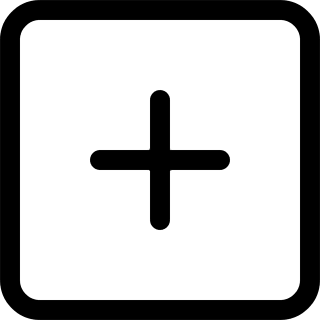
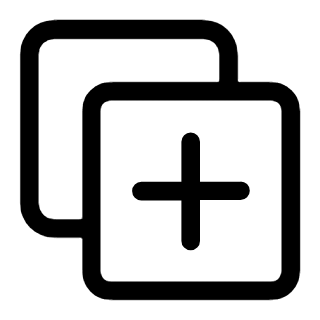
style changed, add button for new note, new checkbox

diff --git a/views/NoteView.jsx b/views/NoteView.jsx
@@ -40,7 +40,7 @@ const NoteView = ({ navigation, route }) => {
         const lastIndex = originalUri.lastIndexOf('/');
         const directory = originalUri.substring(0, lastIndex + 1);
         const fileName = originalUri.substring(lastIndex + 1);
-        
+
         const newFileUri = `${directory}copy_${timestamp}_${fileName}`;
         return newFileUri;
     };
@@ -49,9 +49,9 @@ const NoteView = ({ navigation, route }) => {
         try {
             const downloadsDirectory = `${FileSystem.documentDirectory}Documents/`;
             await FileSystem.makeDirectoryAsync(downloadsDirectory, { intermediates: true });
-    
+
             const newFileUri = `${downloadsDirectory}${fileName}`;
-    
+
             await FileSystem.copyAsync({
                 from: fileUri,
                 to: newFileUri,
@@ -61,25 +61,49 @@ const NoteView = ({ navigation, route }) => {
         }
     };
 
+    const copyFileToPermanentLocation = async (uri) => {
+        try {
+            const fileName = uri.split('/').pop();
+            const permanentFileUri = `${FileSystem.documentDirectory}Documents/${fileName}`;
+
+            // Копируем файл в постоянное место
+            await FileSystem.copyAsync({
+                from: uri,
+                to: permanentFileUri,
+            });
+
+            return permanentFileUri;
+        } catch (error) {
+            console.error('Error copying file:', error);
+            throw error;
+        }
+    };
+
     const saveEditedFile = async () => {
         if (editingFileIndex !== -1) {
             try {
                 const originalFileUri = files[editingFileIndex].uri;
-                const newFileUri = getNewFileUri(originalFileUri);
     
-                await FileSystem.copyAsync({ from: originalFileUri, to: newFileUri });
+                // Проверяем, находится ли файл в временной директории
+                const permanentFileUri = originalFileUri.startsWith('file:///data/user/0/host.exp.exponent/cache')
+                    ? await copyFileToPermanentLocation(originalFileUri)
+                    : originalFileUri;
+
+                    console.log(permanentFileUri)
     
+                // Перезаписываем файл с новыми данными
+                await FileSystem.writeAsStringAsync(permanentFileUri, editedFileContent);
+    
+                // Обновляем список файлов с новым URI
                 const updatedFiles = [...files];
-                updatedFiles[editingFileIndex].uri = newFileUri;
+                updatedFiles[editingFileIndex] = { ...updatedFiles[editingFileIndex], uri: permanentFileUri };
                 setFiles(updatedFiles);
     
-                await FileSystem.writeAsStringAsync(newFileUri, editedFileContent);
-    
-                const fileName = `edited_${new Date().getTime()}.txt`;
-                await saveFileToDownloads(newFileUri, fileName);
-    
+                // Сбрасываем индекс и содержимое редактируемого файла
                 setEditingFileIndex(-1);
                 setEditedFileContent('');
+    
+                Alert.alert('Success', 'File has been saved.');
             } catch (err) {
                 console.error('Error saving file:', err);
                 Alert.alert('Error', 'Unable to save file.');
@@ -92,6 +116,7 @@ const NoteView = ({ navigation, route }) => {
             const fileContent = await FileSystem.readAsStringAsync(fileUri, {
                 encoding: FileSystem.EncodingType.UTF8,
             });
+            console.log('File Content:', fileContent); // Проверьте содержимое файла
             setEditingFileIndex(index);
             setEditedFileContent(fileContent);
         } catch (err) {
@@ -117,13 +142,7 @@ const NoteView = ({ navigation, route }) => {
         }
 
         try {
-            const promises = files.map(async (file) => {
-                const fileUri = file.uri;
-                const fileContent = await FileSystem.readAsStringAsync(fileUri);
-                await FileSystem.writeAsStringAsync(fileUri, fileContent);
-            });
-
-            await Promise.all(promises);
+            // Здесь уже не нужно перезаписывать файлы, так как это делается в saveEditedFile
         } catch (error) {
             console.error('Error saving files:', error);
         }
@@ -149,7 +168,7 @@ const NoteView = ({ navigation, route }) => {
                             <Text className="text-blue-600">{file.name}</Text>
                         </TouchableOpacity>
                         {editingFileIndex === index && (
-                            <TextInput className=""
+                            <TextInput className="border p-2 rounded-lg"
                                 onChangeText={(content) => setEditedFileContent(content)}
                                 placeholder='Change your file...'
                                 value={editedFileContent}
@@ -159,34 +178,40 @@ const NoteView = ({ navigation, route }) => {
                     </View>
                 ))}
             </View>
-            {editingFileIndex !== -1 && (
+            <View className="flex-1 flex-row">
+                {editingFileIndex !== -1 && (
+                    <TouchableOpacity
+                        className="flex items-center p-2 mx-1 mt-1 rounded-xl h-12"
+                        onPress={saveEditedFile}
+                    >
+                        <Image
+                            source={require('../images/save-file.png')}
+                            className="w-8 h-8"
+                        />
+                    </TouchableOpacity>
+                )}
+                {editingFileIndex === -1 && (
+                    <TouchableOpacity
+                        className="flex items-center p-2 mx-1 mt-1 rounded-xl h-12"
+                        onPress={selectFiles}
+                    >
+                        <Image
+                            source={require('../images/add-file.png')}
+                            className="w-8 h-8"
+                        />
+                    </TouchableOpacity>
+                )}
                 <TouchableOpacity
-                    className="items-center bg-gray-300 p-2 mx-1 rounded-xl mt-1"
-                    onPress={saveEditedFile}
+                    className="flex rounded-2xl w-20 h-20 justify-center items-center ml-auto mr-1"
+                    title='Save Note'
+                    onPress={saveNote}
                 >
-                    <Text>Save File</Text>
+                    <Image
+                        source={require('../images/save-note.png')}
+                        className="w-10 h-10"
+                    />
                 </TouchableOpacity>
-            )}
-            {editingFileIndex === -1 && (
-                <TouchableOpacity
-                    className="items-center bg-gray-300 p-2 mx-1 rounded-xl mt-1"
-                    onPress={selectFiles}
-                >
-                    <Text>Add Files</Text>
-                </TouchableOpacity>
-            )}
-
-
-            <TouchableOpacity
-                className="rounded-2xl w-20 h-20 justify-center items-center ml-auto mr-1"
-                title='Save Note'
-                onPress={saveNote}
-            >
-                <Image
-                    source={require('../images/align-right-svgrepo-com.png')}
-                    className="w-12 h-12"
-                />
-            </TouchableOpacity>
+            </View>
         </View>
     );
 };

diff --git a/views/HomeView.jsx b/views/HomeView.jsx
@@ -1,15 +1,19 @@
-import { View, Text, FlatList, TouchableOpacity, SafeAreaView, Image, Pressable } from 'react-native'
+import { View, Text, FlatList, TouchableOpacity, SafeAreaView, Image, Pressable, Modal } from 'react-native'
 import React, { useEffect, useState } from 'react'
 import Note from '../components/Note.jsx'
 import DeleteModal from '../components/DeleteModal.jsx'
 import AsyncStorage from '@react-native-async-storage/async-storage';
 import * as Haptics from 'expo-haptics';
 
-
 const HomeView = ({ navigation }) => {
     const [notes, setNotes] = useState([]);
     const [modalVisible, setModalVisible] = useState(false);
     const [selectedNote, setSelectedNote] = useState(null);
+    const [addModalVisible, setAddModalVisible] = useState(false);
+
+    const toggleAddModal = () => {
+        setAddModalVisible(!addModalVisible);
+    };
 
     const addNote = (note) => {
         const newNote = { id: Date.now().toString(), text: note.text, files: note.files };
@@ -99,15 +103,55 @@ const HomeView = ({ navigation }) => {
                         )}
                     />
                 </View>
-                <TouchableOpacity
-                    title='Add Note'
-                    onPress={() => navigation.navigate('Note', { addNote, updateNote })}
-                >
-                    <Image
-                        source={require('../images/plus.png')}
-                        className="w-14 h-14 absolute bottom-3 right-3"
-                    />
-                </TouchableOpacity>
+                <View className="flex-1 justify-end">
+                    <TouchableOpacity
+                        title='Add Note'
+                        onPress={toggleAddModal}
+                    >
+                        <Image
+                            source={require('../images/plus.png')}
+                            className="w-20 h-20 absolute bottom-3 right-3"
+                        />
+                    </TouchableOpacity>
+                    <Modal
+                        transparent={true}
+                        visible={addModalVisible}
+                        animationType="none"
+                        onRequestClose={toggleAddModal}
+                    >
+                        <TouchableOpacity
+                            className="flex-1"
+                            onPress={toggleAddModal}
+                        >
+                            <View className="absolute bottom-20 right-3">
+                                <TouchableOpacity
+                                    className="w-14 h-14"
+                                    onPress={() => {
+                                        toggleAddModal();
+                                        navigation.navigate('Note', { addNote, updateNote });
+                                    }}
+                                >
+                                    <Image
+                                        source={require('../images/add-check.png')}
+                                        className="w-14 h-14 absolute bottom-2"
+                                    />
+                                </TouchableOpacity>
+                                <TouchableOpacity
+                                    className="w-14 h-14"
+                                    onPress={() => {
+                                        toggleAddModal();
+                                        navigation.navigate('Note', { addNote, updateNote });
+                                    }}
+                                >
+                                    <Image
+                                        source={require('../images/add-note.png')}
+                                        className="w-14 h-14 absolute bottom-3"
+                                    />
+                                </TouchableOpacity>
+                            </View>
+                        </TouchableOpacity>
+                    </Modal>
+                </View>
                 <View>
                     <DeleteModal
                         visible={modalVisible}

diff --git a/index.js b/index.js
@@ -1,0 +1,8 @@
+import { registerRootComponent } from 'expo';
+
+import App from './App';
+
+// registerRootComponent calls AppRegistry.registerComponent('main', () => App);
+// It also ensures that whether you load the app in Expo Go or in a native build,
+// the environment is set up appropriately
+registerRootComponent(App);

diff --git a/metro.config.js b/metro.config.js
@@ -1,0 +1,7 @@
+// Learn more https://docs.expo.io/guides/customizing-metro
+const { getDefaultConfig } = require('expo/metro-config');
+
+/** @type {import('expo/metro-config').MetroConfig} */
+const config = getDefaultConfig(__dirname);
+
+module.exports = config;
